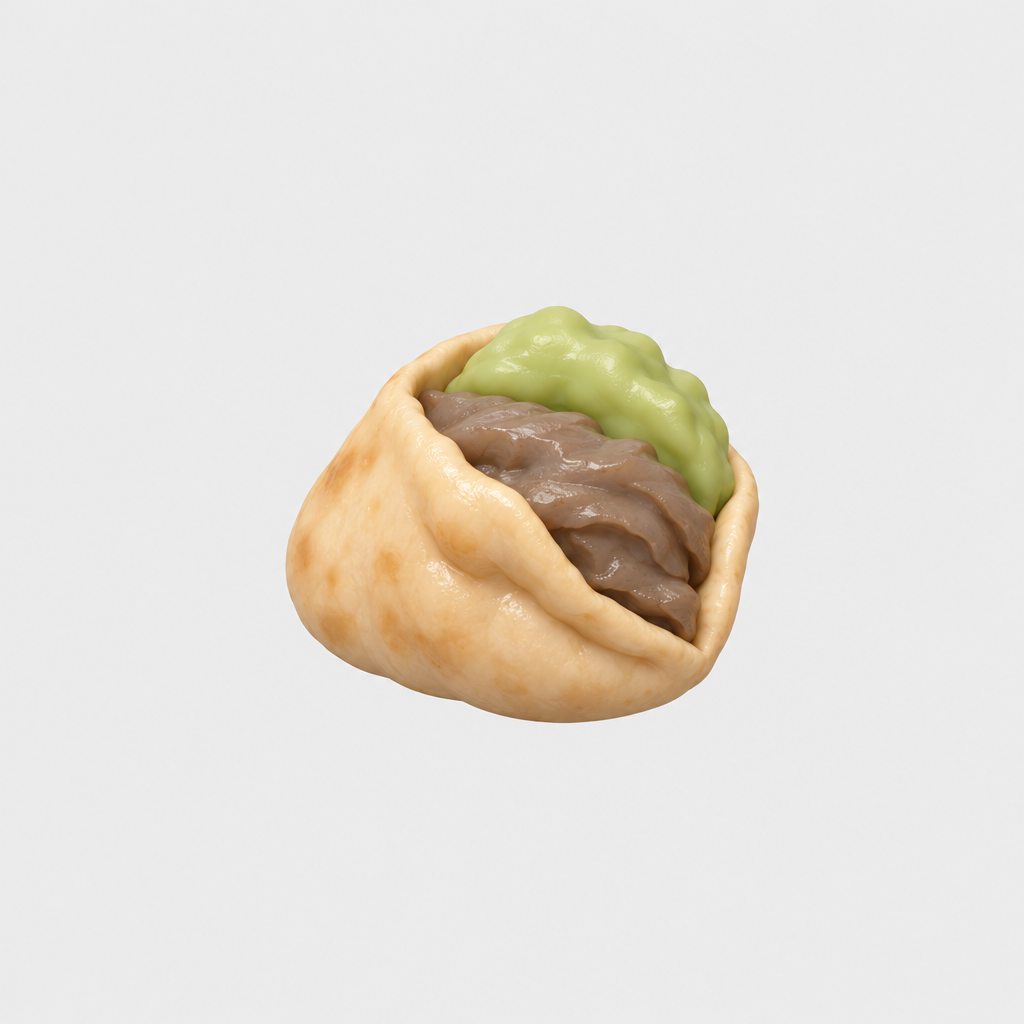
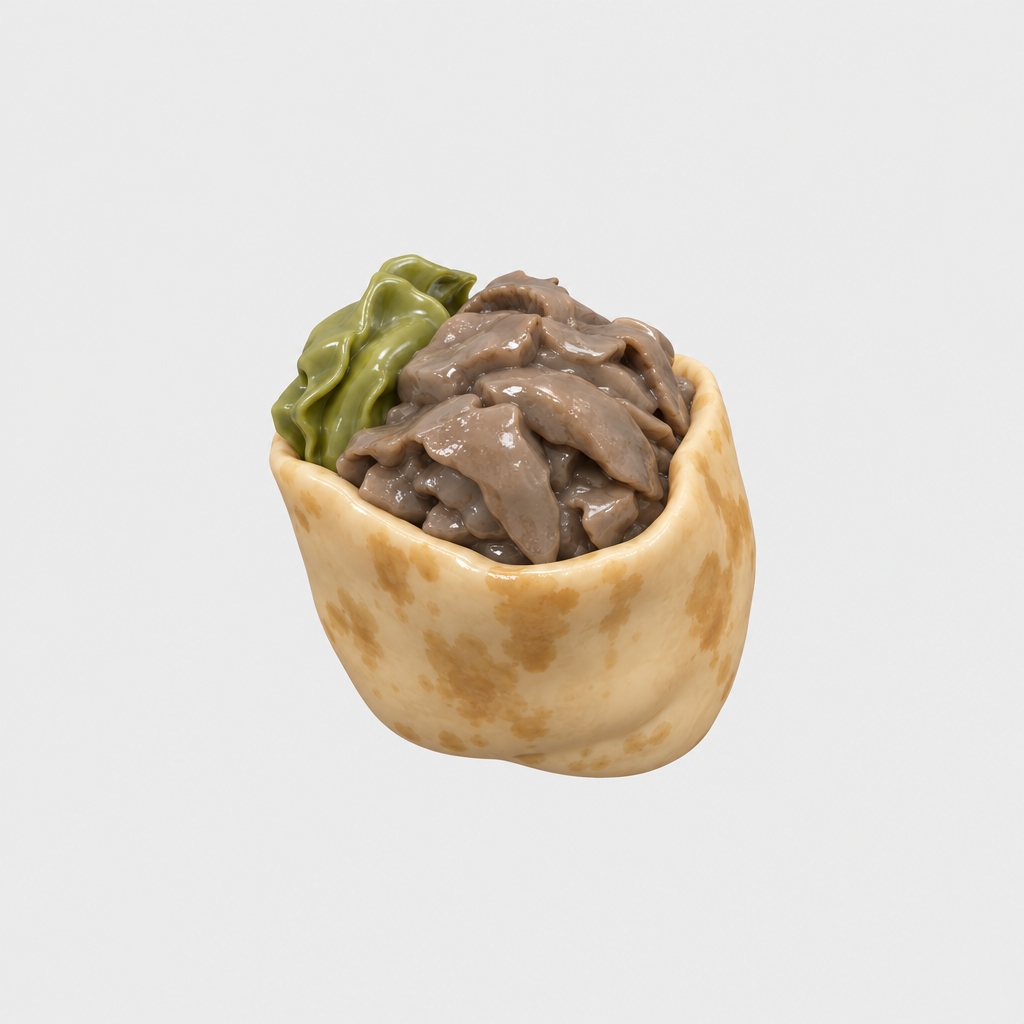
art(debaucheryville): food batch 9 round 3 references: corndog, kebab, Kokos Loco bucket (asset team)
Claude-Session: https://claude.ai/code/session_01Rk2Ri3vAu7TBhRadSU9CbJ

Changed region(s): [[0.25, 0.25, 0.75, 0.7812]]

diff --git a/dev/asset_team/icon_refs/item_kokos_loco_bucket_prompt.md b/dev/asset_team/icon_refs/item_kokos_loco_bucket_prompt.md
@@ -1,7 +1,7 @@
 # item_kokos_loco_bucket (Kokos Loco Bucket): 3D icon reference prompt
 
-Firefly home, GPT Image 2.5 Sunburst, Quality High, 1:1. No lettering anywhere. Round 2 of 3 after A3 fail (photoreal, small plain cup). Fresh generation. Margins L19.6 R19.7 T28.1 B27.5 (percent, Pillow).
-Canon: bohemian_riviera_items.json about line 102 ("A bucket-sized pina colada in an imported plastic coconut shell painted to look tropical"); bohemian_riviera.md lines 92, 202 (imported plastic coconut shell) and palette lines 118-125. Colours come from that palette: Inflatable-Palm Green #32CD32 (painted shell), Space Heater Orange #FF7F32 (rim and lugs), murk-green #5E7350 (opaque dubious drink). The doc names no colours for the item itself, so this mapping is a design choice to flag.
-Shows: a wide squat bucket-sized molded plastic coconut-shell tub, lurid flat green with a few bad paint blobs, a mold seam, a thick orange rim and two fat solid orange lugs, filled with an opaque murky green-grey flat drink surface. No straw, garnish or transparency. Known weakness: the ribbed shell reads a little pumpkin-like and the drink looks slightly recessed.
+Firefly home, GPT Image 2.5 Sunburst, Quality High, 1:1. No lettering. Round 3 of 3 (last). Fresh generation. Margins L24.4 R24.6 T26.7 B25.8 (percent, Pillow).
+Canon: bohemian_riviera_items.json about line 102 ("A bucket-sized pina colada in an imported plastic coconut shell painted to look tropical"); bohemian_riviera.md lines 92, 202. Shape and painted-motif choices follow the coordinator's A3 notes; the doc names no motifs, so the hibiscus, palm leaf and sun are flat colour shapes added by that brief (no lettering).
+Shows: the top half of a brown coconut shell in shiny moulded plastic (broad shallow husk bumps), wide and deep, thick solid rim, no handles, three flat painted tropical shapes (magenta hibiscus, lime palm leaf, orange sun), heaped with an opaque creamy pale-yellow pina colada mound.
 
-Prompt: Stylised 3D toy render of a giant tacky tourist-trap cocktail bucket, smooth glossy vinyl, simple chunky forms, bold flat solid colours, no photographic texture, clean game-item icon. Drawn SMALL in the middle of a big empty flat light-grey square, central 55 percent, 15 percent margin. One BUCKET-SIZED wide squat tub of cheap imported molded plastic in the shape of a cut-open coconut shell, painted a lurid flat even lime green (#32CD32) as a fake tropical paint job, thick chunky rim in flat orange (#FF7F32), two fat stubby solid lug handles, a visible molded seam, a few fat painted-on blobs where the paint is bad. Filled to the rim with an opaque dubious murky green-grey (#5E7350) drink whose top is one flat solid slab. No straw, umbrella, garnish, ice, glass, transparency, steam, drips, text, hands, people, shadows.
+Prompt: Stylised 3D toy render of a giant cheap plastic coconut-shell cocktail, smooth glossy vinyl, simple chunky forms, smooth simplified surfaces, bold flat colour areas, no pores, no speckle, no photographic texture. Drawn SMALL, central 55 percent, 15 percent margin. The top half of a coconut shell, rounded, wide and deep (bucket-sized), one flat brown moulded plastic with fake husk texture as broad shallow bumps, obviously cheap shiny plastic. A few bold cheap painted tropical shapes as flat colour shapes only: magenta hibiscus, lime palm leaf, orange sun. NO handles, NO loops. Thick solid rolled rim. Heaped to the brim with an opaque creamy pale-yellow pina colada, a smooth swirled mound. No straw, umbrella, garnish, glass, transparency, steam, drips, text, hands, people, shadows.

diff --git a/dev/asset_team/icon_refs/lukewarm_kebab_prompt.md b/dev/asset_team/icon_refs/lukewarm_kebab_prompt.md
@@ -1,7 +1,7 @@
 # lukewarm_kebab (Lukewarm Kebab): 3D icon reference prompt
 
-Firefly home, GPT Image 2.5 Sunburst, Quality High, 1:1. No lettering anywhere. Round 2 of 3 after A3 fail (photoreal, appetising, thin lettuce). Fresh generation. Margins L27.8 R26.0 T29.9 B29.5 (percent, Pillow).
-Canon: consumables.json line 4 ("Street meat of dubious provenance."); Late-Night Kebab Stand.md lines 91-105 (limp pita, grey greasy meat); condiment_clan_ninja.md line 182. "Lukewarm" drives the pallid, tired look.
-Shows: a slumped beige pita pocket with a grease sheen, one smooth solid lump of sickly grey-brown doner meat, and ONE solid rounded wad of pale-green lettuce (no leaves or strips).
+Firefly home, GPT Image 2.5 Sunburst, Quality High, 1:1. No lettering. Round 3 of 3 (last). Fresh generation. Margins L26.3 R26.3 T24.8 B24.1 (percent, Pillow).
+Canon: consumables.json line 4 ("Street meat of dubious provenance."). I re-read Late-Night Kebab Stand.md: the "dense kebab box" is line 129, the item "Belly Of Chadz" (6 SOVS), a DIFFERENT item, so it was NOT used for lukewarm_kebab. Lines 103-105 ("EuroMeat Pocket": suspiciously grey gyro stuffed into soggy microwaved pita) are the closest match to "street meat of dubious provenance" and were followed: soggy pita, suspiciously grey gyro, lukewarm. The doc names no item doc for lukewarm_kebab itself (docs/catalog/items.md line 50). If the author wants the box, that is a separate decision.
+Shows: a thick soggy sagging beige pita with grease stains, heaped with a mound of grey glossy gyro meat and one slumped wilted lump of green lettuce.
 
-Prompt: Stylised 3D toy render of a single lukewarm dubious street kebab, smooth glossy vinyl, simple chunky forms, bold flat solid colours, no photographic texture, clean game-item icon. Drawn SMALL in the middle of a big empty flat light-grey square, central 55 percent, 15 percent margin. One fat, slumped, sagging pita bread pocket in one flat pallid beige with a sweaty grease sheen, bulging with ONE big solid lump of grey-brown doner meat in a sickly grey tone, and ONE single solid chunky rounded wad of pale-green lettuce, as one smooth blob with no separate leaves and no strips. Limp, tired, lukewarm, dubious origin. Only big thick solid shapes, no wrapper paper. No steam, drips, crumbs, sauce, skewer, text, hands, people, shadows.
+Prompt: Stylised 3D toy render of a single cheap street kebab in a pita, smooth glossy vinyl, simple chunky forms, smooth simplified surfaces, bold flat colour areas, no pores, no speckle, no photographic texture. Drawn SMALL, central 55 percent, 15 percent margin. A classic stuffed pita kebab: a thick soggy sagging pita pocket in flat pale beige with grease-stain patches, its open top stuffed and heaped with a big smooth mound of suspiciously GREY gyro meat under a shiny greasy sheen, plus ONE slumped solid wilted lump of dull green lettuce. Lukewarm, limp, grey, dubious, instantly readable as a kebab. Only big thick solid shapes. No steam, drips, crumbs, sauce, skewer, text, hands, people, shadows.

diff --git a/dev/asset_team/icon_refs/item_mystery_meat_corndog_prompt.md b/dev/asset_team/icon_refs/item_mystery_meat_corndog_prompt.md
@@ -1,7 +1,7 @@
 # item_mystery_meat_corndog (Mystery Meat Corndog): 3D icon reference prompt
 
-Firefly home, GPT Image 2.5 Sunburst, Quality High, 1:1. No lettering anywhere. Round 2 of 3 after A3 fail (photoreal, appetising, thin stick, sausage tip). Fresh generation. Margins L38.7 R37.4 T18.9 B18.5 (percent, Pillow).
-Canon: cirque_du_shady_items.json about line 56 ("The mystery isn't what meat. The mystery is IF meat."); the_participation_trophy.md lines 170, 318. The doc gives no look, so only the mystery and grease cues are drawn.
-Shows: a slumped, drooping stubby corndog in dull grey-beige batter with sickly olive-grey blotches and a sweaty grease sheen, closed at the bottom (no sausage tip), with a fat flat wooden paddle (about one third of the body width) fused into the top.
+Firefly home, GPT Image 2.5 Sunburst, Quality High, 1:1. No lettering. Round 3 of 3 (last). Fresh generation. Margins L27.1 R26.6 T25.7 B25.6 (percent, Pillow).
+Canon: cirque_du_shady_items.json about line 56 ("The mystery isn't what meat. The mystery is IF meat."); the_participation_trophy.md lines 170, 318. The doc gives no look; shape and colours follow the coordinator's A3 notes.
+Shows: a classic straight plump corndog, greasy overcooked golden-tan batter with dark scorch patches, split open along one side to show grey mystery meat, a short chunky square-section wooden block stick (about a third of the body width) fused into the end.
 
-Prompt: Stylised 3D toy render of a single sweaty mystery-meat corndog, smooth glossy vinyl, simple chunky forms, bold flat solid colours, no photographic texture, clean game-item icon. Drawn SMALL in the middle of a big empty flat light-grey square, central 55 percent, 15 percent margin. One fat, slumped, sagging, lumpy corndog shaped like a stubby sausage that droops to one side, coated in an unhealthy dull grey-beige batter with sickly olive-grey blotches and a thick sweaty grease sheen, no golden colour, no sausage tip visible, the batter closed at the bottom. A FAT FLAT wooden paddle stick, at least one third as wide as the corndog, fused solid into the top of the batter. Gross, dubious, funny. No steam, drips, crumbs, sauce, text, hands, people, shadows.
+Prompt: Stylised 3D toy render of a single classic corndog, smooth glossy vinyl, simple chunky forms, smooth simplified surfaces, bold flat colour areas, no pores, no speckle, no photographic texture. Drawn SMALL, central 55 percent, 15 percent margin. One straight plump rounded cylinder of fried batter lying at a slight diagonal, greasy overcooked golden-tan with a few flat dark brown scorch patches and a shiny grease sheen. The batter is split open along one side to show a flat grey mystery meat inside. At the top end, one short chunky SQUARE-section wooden block stick, about one third as thick as the corndog, fused solid into the end. No steam, drips, crumbs, sauce, text, hands, people, shadows.
